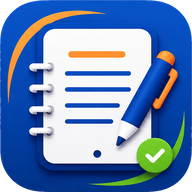
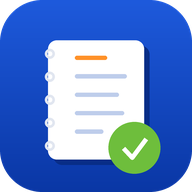
Новая векторная иконка приложения (блокнот с чек-листом и галочкой)

diff --git a/src/routes/__root.tsx b/src/routes/__root.tsx
@@ -92,7 +92,7 @@ export const Route = createRootRouteWithContext<{ queryClient: QueryClient }>()(
       },
       { property: "og:type", content: "website" },
       { name: "twitter:card", content: "summary_large_image" },
-      { name: "theme-color", content: "#0244ae" },
+      { name: "theme-color", content: "#0a37a5" },
       { name: "apple-mobile-web-app-capable", content: "yes" },
       { name: "apple-mobile-web-app-status-bar-style", content: "default" },
       { name: "apple-mobile-web-app-title", content: "Учёт работ" },
